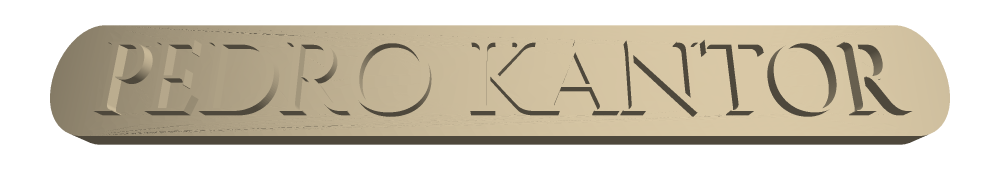
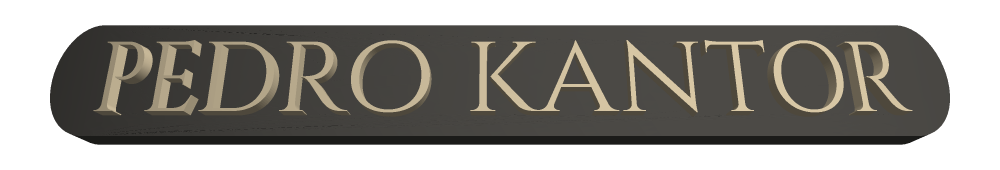
Paint the strip stone-grey and the raised letters gold
The core now tags each triangle of the mesh as letter or strip, using
Manifold's original IDs that survive the union, refinement and bend.
The 3D preview and the README renderer use that to show a painted look:
a dark stone-grey strip with the existing gold for the letters.

Claude-Session: https://claude.ai/code/session_012JrbG7Mp2Je3EfBLgwBxER

diff --git a/web/src/Preview.tsx b/web/src/Preview.tsx
@@ -3,7 +3,9 @@ import * as THREE from "three";
 import { OrbitControls } from "three/addons/controls/OrbitControls.js";
 import type { BaseProfile, NameplateMesh } from "../../src/nameplate";
 
-const PLATE_COLOUR = 0xdecdaa;
+// Painted look: a dark stone-grey strip with gold raised letters.
+const PLATE_COLOUR = 0x4e4c48;
+const LETTER_COLOUR = 0xdecdaa;
 const BASE_COLOUR = 0x464a50;
 const BASE_SEGMENTS = 160;
 
@@ -35,10 +37,11 @@ export function Preview({ mesh, base }: Props) {
     const controls = new OrbitControls(camera, renderer.domElement);
     controls.enableDamping = true;
 
-    const plate = new THREE.Mesh(
-      new THREE.BufferGeometry(),
-      new THREE.MeshStandardMaterial({ color: PLATE_COLOUR, flatShading: true, roughness: 0.6 }),
-    );
+    // Material 0 paints the strip, material 1 the letters; the geometry's groups say which triangles are which.
+    const plate = new THREE.Mesh(new THREE.BufferGeometry(), [
+      new THREE.MeshStandardMaterial({ color: PLATE_COLOUR, flatShading: true, roughness: 0.85 }),
+      new THREE.MeshStandardMaterial({ color: LETTER_COLOUR, flatShading: true, roughness: 0.45, metalness: 0.3 }),
+    ]);
     const baseMesh = new THREE.Mesh(
       new THREE.BufferGeometry(),
       new THREE.MeshStandardMaterial({ color: BASE_COLOUR, roughness: 0.8 }),
@@ -75,6 +78,7 @@ export function Preview({ mesh, base }: Props) {
       controls.dispose();
       renderer.dispose();
       plate.geometry.dispose();
+      (plate.material as THREE.Material[]).forEach((material) => material.dispose());
       baseMesh.geometry.dispose();
       element.removeChild(renderer.domElement);
       scene.current = undefined;
@@ -88,7 +92,17 @@ export function Preview({ mesh, base }: Props) {
     if (!mesh) return;
     const geometry = new THREE.BufferGeometry();
     geometry.setAttribute("position", new THREE.BufferAttribute(mesh.positions, 3));
-    geometry.setIndex(new THREE.BufferAttribute(mesh.triangles, 1));
+    // Strip triangles first, then the letters', so each part is one draw group.
+    const stripCount = mesh.letters.length - mesh.letters.reduce((sum, isLetter) => sum + isLetter, 0);
+    const index = new Uint32Array(mesh.triangles.length);
+    let [nextStrip, nextLetter] = [0, stripCount];
+    mesh.letters.forEach((isLetter, t) => {
+      const slot = isLetter ? nextLetter++ : nextStrip++;
+      index.set(mesh.triangles.subarray(t * 3, t * 3 + 3), slot * 3);
+    });
+    geometry.setIndex(new THREE.BufferAttribute(index, 1));
+    geometry.addGroup(0, stripCount * 3, 0);
+    geometry.addGroup(stripCount * 3, Infinity, 1);
     plate.geometry.dispose();
     plate.geometry = geometry;
   }, [mesh]);

diff --git a/src/nameplate.ts b/src/nameplate.ts
@@ -51,6 +51,8 @@ export interface NameplateRequest {
 export interface NameplateMesh {
   positions: Float32Array;
   triangles: Uint32Array;
+  /** One entry per triangle: 1 where it belongs to the raised letters (tops and sides), 0 on the strip. */
+  letters: Uint8Array;
 }
 
 export interface NameplateError {
@@ -126,7 +128,7 @@ export async function generateNameplate(request: NameplateRequest): Promise<Name
     );
   }
 
-  const flat = flatPlate(wasm, layout.contours, length, sizes);
+  const { plate: flat, lettersID } = flatPlate(wasm, layout.contours, length, sizes);
   const bent = flat.refineToLength(BEND_EDGE_LENGTH).warp((vert) => {
     const [u, v, w] = vert;
     const s = rim.slant / 2 + v;
@@ -143,9 +145,15 @@ export async function generateNameplate(request: NameplateRequest): Promise<Name
   for (let i = 0; i < mesh.numVert; i++) {
     positions.set(mesh.vertProperties.subarray(i * mesh.numProp, i * mesh.numProp + 3), i * 3);
   }
+  // Triangles come in runs, one per original solid they were cut from; the letters' runs carry their ID.
+  const letters = new Uint8Array(mesh.numTri);
+  const runIndex = mesh.runIndex!;
+  mesh.runOriginalID!.forEach((id, run) => {
+    if (id === lettersID) letters.fill(1, runIndex[run]! / 3, runIndex[run + 1]! / 3);
+  });
   return {
     ok: true,
-    mesh: { positions, triangles: new Uint32Array(mesh.triVerts) },
+    mesh: { positions, triangles: new Uint32Array(mesh.triVerts), letters },
     report: { ...sizes, arcDegrees, length },
   };
 }
@@ -290,7 +298,10 @@ function flattenPath(
   return contours;
 }
 
-/** The unbent plate: u along the rim, v up the slope, w outward from the rim (back face at w = 0). */
+/**
+ * The unbent plate: u along the rim, v up the slope, w outward from the rim (back face at w = 0),
+ * with the original ID that marks faces of the letters.
+ */
 function flatPlate(wasm: ManifoldToplevel, glyphs: SimplePolygon[], length: number, sizes: NameplateSizes) {
   const { CrossSection } = wasm;
   const radius = sizes.stripHeight / 2;
@@ -302,6 +313,7 @@ function flatPlate(wasm: ManifoldToplevel, glyphs: SimplePolygon[], length: numb
   const backing = outline.extrude(sizes.backing);
   const letters = new CrossSection(glyphs, "NonZero")
     .extrude(sizes.relief + RELIEF_OVERLAP)
-    .translate([0, 0, sizes.backing - RELIEF_OVERLAP]);
-  return backing.add(letters);
+    .translate([0, 0, sizes.backing - RELIEF_OVERLAP])
+    .asOriginal();
+  return { plate: backing.add(letters), lettersID: letters.originalID() };
 }

diff --git a/scripts/render-readme-images.ts b/scripts/render-readme-images.ts
@@ -7,7 +7,9 @@ import { BASE_PRESETS, generateNameplate, type BaseProfile, type NameplateMesh }
 type Vec3 = [number, number, number];
 type Triangle = { vertices: [Vec3, Vec3, Vec3]; colour: Vec3 };
 
-const PLATE_COLOUR: Vec3 = [222, 205, 170];
+// Painted look: dark stone-grey strip, gold raised letters.
+const PLATE_COLOUR: Vec3 = [78, 76, 72];
+const LETTER_COLOUR: Vec3 = [222, 205, 170];
 const BASE_COLOUR: Vec3 = [70, 74, 80];
 const LIGHT: Vec3 = [0.35, 0.55, 0.76];
 const SUPERSAMPLING = 3;
@@ -22,7 +24,7 @@ const result = await generateNameplate({
 });
 if (!result.ok) throw new Error(result.error.message);
 
-const plate = meshTriangles(result.mesh, PLATE_COLOUR);
+const plate = meshTriangles(result.mesh);
 const images = new URL("../docs/images/", import.meta.url);
 writeFileSync(
   new URL("pedro-kantor-on-base.png", images),
@@ -31,11 +33,12 @@ writeFileSync(
 writeFileSync(new URL("pedro-kantor-front.png", images), render(plate, { yaw: 0, pitch: 0, width: 1000, height: 170 }));
 console.log("Wrote docs/images/pedro-kantor-on-base.png and docs/images/pedro-kantor-front.png");
 
-function meshTriangles(mesh: NameplateMesh, colour: Vec3): Triangle[] {
+function meshTriangles(mesh: NameplateMesh): Triangle[] {
   const vertex = (i: number): Vec3 => [mesh.positions[i * 3]!, mesh.positions[i * 3 + 1]!, mesh.positions[i * 3 + 2]!];
   const triangles: Triangle[] = [];
   for (let t = 0; t < mesh.triangles.length; t += 3) {
     const [a, b, c] = [mesh.triangles[t]!, mesh.triangles[t + 1]!, mesh.triangles[t + 2]!];
+    const colour = mesh.letters[t / 3] ? LETTER_COLOUR : PLATE_COLOUR;
     triangles.push({ vertices: [vertex(a), vertex(b), vertex(c)], colour });
   }
   return triangles;

diff --git a/test/nameplate.test.ts b/test/nameplate.test.ts
@@ -32,6 +32,24 @@ describe("generateNameplate", () => {
     expect(angularExtent(result.mesh)).toBeCloseTo(result.report.arcDegrees, 1);
   });
 
+  it("marks the raised letters' faces apart from the strip's, split at the backing's front face", async () => {
+    const result = await generateNameplate(kantor);
+
+    if (!result.ok) throw new Error(result.error.message);
+    const { triangles, letters } = result.mesh;
+    expect(letters.length).toBe(triangles.length / 3);
+    const out = rimCoordinates(result.mesh, { bottomDiameter: 32, topDiameter: 29.5, height: 4 }).map((p) => p.out);
+    const letterOut: number[] = [];
+    const stripOut: number[] = [];
+    letters.forEach((isLetter, t) => {
+      for (let k = 0; k < 3; k++) (isLetter ? letterOut : stripOut).push(out[triangles[t * 3 + k]!]!);
+    });
+    expect(letterOut.length).toBeGreaterThan(0);
+    expect(Math.min(...letterOut)).toBeGreaterThan(DEFAULT_SIZES.backing - 1e-3);
+    expect(Math.max(...letterOut)).toBeCloseTo(DEFAULT_SIZES.backing + DEFAULT_SIZES.relief, 3);
+    expect(Math.max(...stripOut)).toBeLessThan(DEFAULT_SIZES.backing + 1e-3);
+  });
+
   it("lengthens the arc by the extra end padding over the strip's centreline radius", async () => {
     const short = await generateNameplate({ ...kantor, sizes: { endPadding: 2 } });
     const long = await generateNameplate({ ...kantor, sizes: { endPadding: 3 } });

diff --git a/web/src/nameplate.worker.ts b/web/src/nameplate.worker.ts
@@ -35,6 +35,7 @@ async function build(data: WorkerRequest) {
   self.postMessage({ id: data.id, ...result, stl } satisfies WorkerResponse, [
     result.mesh.positions.buffer,
     result.mesh.triangles.buffer,
+    result.mesh.letters.buffer,
     stl.buffer,
   ]);
 }

diff --git a/playwright.local.config.ts b/playwright.local.config.ts
@@ -1,0 +1,2 @@
+import base from "./playwright.config";
+export default { ...base, use: { ...base.use, launchOptions: { executablePath: "/opt/pw-browsers/chromium" } } };
